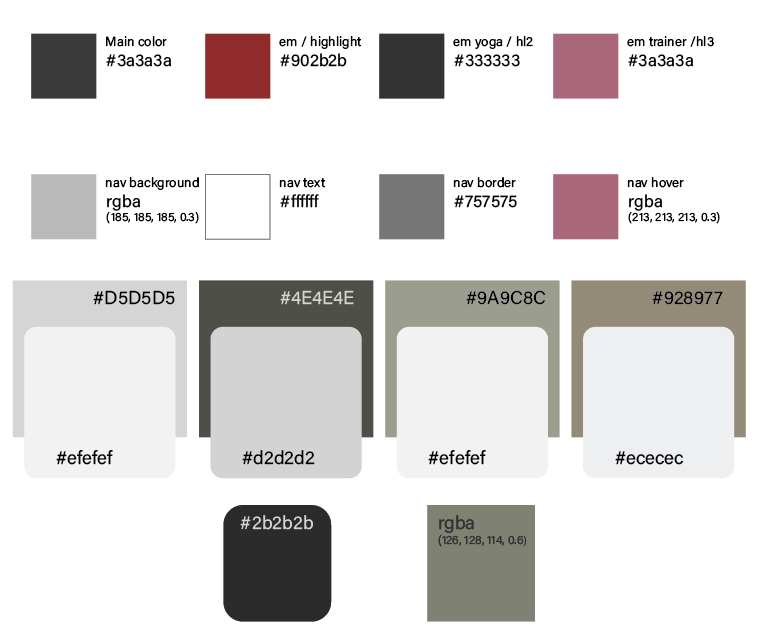
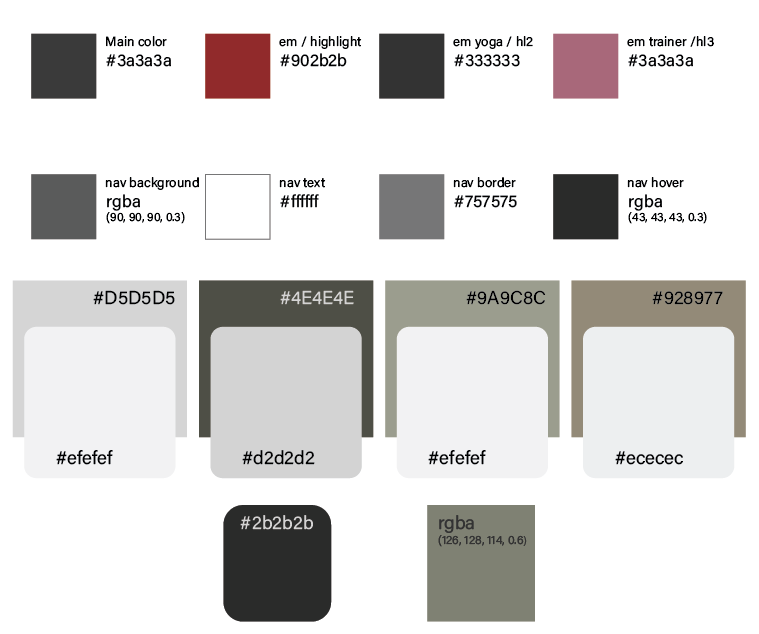
Correction of Colours

Changed region(s): [[0.0303, 0.2697, 0.2727, 0.3896], [0.7273, 0.2697, 0.9697, 0.3896]]

diff --git a/README.md b/README.md
@@ -18,13 +18,13 @@ The color choices were carefully selected to create a cohesive and visually appe
 
 #### Text and Highlights:
 - `#3a3a3a` for primary text ensures a readable and balanced contrast against the background.
-- `#4A4A4F` serves as the primary highlight, providing a subtle yet distinct emphasis.
-- `#009FE3` `#009FE3` for secondary and tertiary highlights, respectively, maintain a consistent and vibrant color scheme.
+- `#902b2b` serves as the primary highlight, providing a subtle yet distinct emphasis.
+- `#333333` `#3a3a3a` for secondary and tertiary highlights, respectively, maintain a consistent and vibrant color scheme.
 
 #### Navigation:
-- `#3a3a3a` as the background provides a neutral base for navigation, ensuring readability.
-- `#4A4A4F` for navigation text maintains a clear contrast against the background.
-- `#009FE3` for navigation border and hover effect adds a dynamic and engaging element.
+- `rgba90,90,90,0,3` as the background provides a neutral base for navigation, ensuring readability.
+- `#FFFFFF` for navigation text maintains a clear contrast against the background.
+- `#757575` for navigation border and `rgba43,43,43,0,3` hover effect adds a dynamic and engaging element.
 
 #### Sections:
 - `#D5D5D5` for the home/welcome background creates a welcoming and neutral atmosphere.
@@ -35,7 +35,7 @@ The color choices were carefully selected to create a cohesive and visually appe
 
 #### Special Elements:
 - `#2b2b2b` for dark blobs adds a bold and contrasting visual element.
-- `rgba 126, 128, 114, 0.6` as an overlay on yoga events creates a subtle and immersive effect, enhancing the overall visual appeal.
+- `rgba126,128,114,0.6` as an overlay on yoga events creates a subtle and immersive effect, enhancing the overall visual appeal.
 
 
 ## Typography
